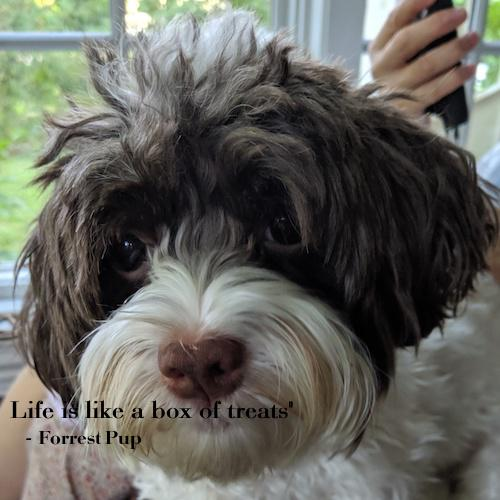
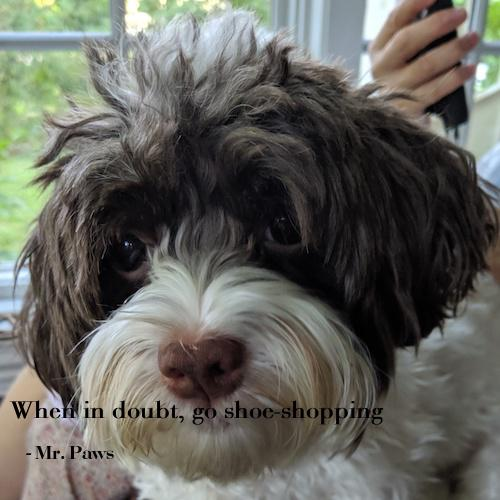
Fixed review comments

Changed region(s): [[0.0, 0.78, 0.78, 0.93]]

diff --git a/src/templates/404.html b/src/templates/404.html
@@ -1,0 +1,2 @@
+<h2>The webpage you are trying is not found</h2>
+<img src="{{ path }}" />

diff --git a/src/templates/500.html b/src/templates/500.html
@@ -1,0 +1,1 @@
+<h2>Something Went Wrong, go back and try again.</h2>

diff --git a/src/MemeGen/MemeEngine.py b/src/MemeGen/MemeEngine.py
@@ -13,6 +13,7 @@ from PIL import Image
 from PIL import ImageDraw
 from PIL import ImageFont
 import random
+import textwrap
 
 
 class MemeEngine:
@@ -20,6 +21,7 @@ class MemeEngine:
 
     This defines output diretory to save the generated captioned image.
     Defines method to create captioned image.
+    Defines method to wrap quote text.
     """
 
     def __init__(self, out_dir):
@@ -40,19 +42,62 @@ class MemeEngine:
         """
         offsets = [(10, 20), (100, 200), (100, 300), (10, 400),
                    (150, 250), (40, 100)]
-        img = Image.open(img_path)
-        ratio = width/float(img.size[0])
-        height = int(ratio*float(img.size[1]))
-        img = img.resize((width, height), Image.NEAREST)
-        quote = f"{text} \n - {author}"
-        draw = ImageDraw.Draw(img)
+        try:
+            image = Image.open(img_path)
+        except IOError as e:
+            print(e)
+        # Set width to default 500 if given width is greater than 500
+        if width > 500:
+            width = 500
+        ratio = width/float(image.size[0])
+        height = int(ratio*float(image.size[1]))
+        image = image.resize((width, height), Image.NEAREST)
+        draw = ImageDraw.Draw(image)
         font = ImageFont.truetype("BodoniBold.ttf", 25)
         font1 = ImageFont.truetype("bodoni.ttf", 20)
         xoff, yoff = random.choice(offsets)
-        draw.text((xoff, yoff), text, font=font, fill='black')
-        draw.text((xoff, yoff + 30), f"    - {author}", font=font1,
+        # Call function to wrap text
+        lines = self.text_wrap(text, font, image.size[0]-xoff)
+        # Define line height based on char h and g
+        line_height = font.getsize('hg')[1]
+        for line in lines:
+            draw.text((xoff, yoff), line, font=font, fill='black')
+            yoff = yoff + line_height
+        draw.text((xoff, yoff + 20), f"    - {author}", font=font1,
                   fill='black')
         img_format = img_path.split('.')[-1]
         meme_path = f"{self.out_dir}/out.{img_format}"
-        img.save(meme_path)
+        image.save(meme_path)
         return meme_path
+
+    def text_wrap(self, text, font, max_width):
+        """Wrap text based on given width.
+
+        This function breaks the text to multi-line text if given
+        text is long and its crossing the edges of an image.
+        :param text: Text to be wrapped
+        :param font: Font type
+        :param max_width: Desired width for the text
+        :return: List of sub-strings
+        """
+        lines = []
+        # No need to split if text width is smaller than max_width
+        if font.getsize(text)[0] <= max_width:
+            lines.append(text)
+        else:
+            # Splitting the line by space to get the list of words
+            words = text.split(' ')
+            i = 0
+            # append word to a line while its width is shorter than
+            # the max_width
+            while i < len(words):
+                line = ''
+                while (i < len(words) and
+                       font.getsize(line + words[i])[0] <= max_width):
+                    line = line + words[i] + ' '
+                    i += 1
+                if not line:
+                    line = words[i]
+                    i += 1
+                lines.append(line)
+        return lines

diff --git a/src/app.py b/src/app.py
@@ -17,7 +17,7 @@ from MemeGen import MemeEngine
 
 app = Flask(__name__)
 app.config['SEND_FILE_MAX_AGE_DEFAULT'] = 300
-meme = MemeEngine.MemeEngine('./static')
+meme = MemeEngine('./static')
 
 
 def setup():
@@ -94,6 +94,18 @@ def meme_post():
     path = meme.make_meme(tmp_image, quote_body, quote_author)
     os.remove(tmp_image)
     return render_template('meme.html', path=path)
+
+
+@app.errorhandler(404)
+def not_found_error(error):
+    """Handle 404 errors."""
+    return render_template('404.html', path='./static/opps.png'), 404
+
+
+@app.errorhandler(500)
+def internal_error(error):
+    """Handle 500 errors."""
+    return render_template('500.html'), 500
 
 
 @app.after_request

diff --git a/src/meme.py b/src/meme.py
@@ -13,8 +13,8 @@ If any argument is not defined, a random selection is used.
 
     -- python3 meme.py
 
-    -- python3 meme.py --path './_data/photos/Image10.jpg' --body 'Test quote'
-       --author 'Shivani'
+    -- python3 meme.py --path './_data/photos/dog/xander_1.jpg'
+       --body 'Test quote' --author 'Shivani'
 """
 import os
 import random
@@ -66,7 +66,7 @@ def generate_meme(path=None, body=None, author=None):
             raise Exception('Author Required if Body is Used')
         quote = QuoteModel.QuoteModel(body, author)
 
-    meme = MemeEngine.MemeEngine('./tmp')
+    meme = MemeEngine('./tmp')
     path = meme.make_meme(img, quote.body, quote.author)
     return path
 

diff --git a/src/QuoteEngine/PDFIngestor.py b/src/QuoteEngine/PDFIngestor.py
@@ -36,7 +36,7 @@ class PDFIngestor(IngestorInterface):
         reading data from file.
         """
         if not cls.can_ingest(path):
-            raise("Input file can not be ingested")
+            raise Exception("Input file can not be ingested")
         tmp = f'./tmp/{random.randint(0,100000000)}.txt'
         try:
             call = subprocess.call(['pdftotext', path, tmp])

diff --git a/src/QuoteEngine/CSVIngestor.py b/src/QuoteEngine/CSVIngestor.py
@@ -33,7 +33,7 @@ class CSVIngestor(IngestorInterface):
         opening or reading data from file.
         """
         if not cls.can_ingest(path):
-            raise("Input file can not be ingested")
+            raise Exception("Input file can not be ingested")
         try:
             quotes = []
             df = pandas.read_csv(path, header=0)

diff --git a/src/QuoteEngine/TextIngestor.py b/src/QuoteEngine/TextIngestor.py
@@ -30,7 +30,7 @@ class TextIngestor(IngestorInterface):
         or reading data from file.
         """
         if not cls.can_ingest(path):
-            raise("Input file can not be ingested")
+            raise Exception("Input file can not be ingested")
         try:
             quotes = []
             with open(path, 'r') as infile:

diff --git a/src/QuoteEngine/DocxIngestor.py b/src/QuoteEngine/DocxIngestor.py
@@ -33,7 +33,7 @@ class DocxIngestor(IngestorInterface):
         or reading data from file.
         """
         if not cls.can_ingest(path):
-            raise("Input file can not be ingested")
+            raise Exception("Input file can not be ingested")
         try:
             quotes = []
             doc = docx.Document(path)

diff --git a/src/MemeGen/__init__.py b/src/MemeGen/__init__.py
@@ -1,2 +1,3 @@
 """Let Python know that /MemeGen is a package for meme engine."""
+
 from .MemeEngine import MemeEngine
